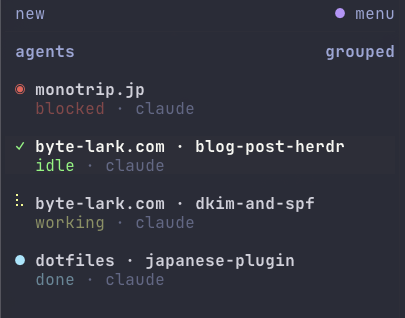
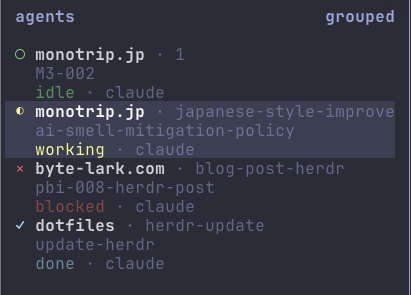
wip(pbi): PHASE1E-008 herdr画像3枚の反映（枠あり掲載・全体とagents差し替え）
Claude-Session: https://claude.ai/code/session_01CrGy8vAME4qcyhYRuFSnuM

diff --git a/docs/pbi/20260823-PHASE1E-008-post-ghostty-herdr-migration.md b/docs/pbi/20260823-PHASE1E-008-post-ghostty-herdr-migration.md
@@ -230,3 +230,18 @@ Started: 2026-08-23
 - herdr 0.9.0 のスクショ 2 枚（統合版 = 全体、サイドバー単体）をチャットで受領。
   差し替え先の提案と赤枠版の説明文面を運営者に提示し、OK 待ち
 - 検査：natural-japanese lint --genre tech 0 件（84 文）、profile「避ける表現」照合済み
+
+### 2026-09-12 セッション 4 続き 4（herdr 画像 3 枚の反映とプレビュー送付）
+- 運営者が「文面は一旦OK。差し替え方針も提案でやってみましょう。出来上がり見ないと
+  なんとも言えない」と回答 → 実施して出来上がりを送付する方式に
+- 枠あり版（運営者がサイドバー単体に赤枠 + 注釈を書き込んだもの）を「herdrとは」節に
+  掲載。承認文面は統合版ベースの想定だったため、導入文と alt を実際の画像に合わせて
+  調整（herdr-sidebar-annotated.png。調整は運営者に報告）
+- 統合版で herdr-overview.png を差し替え。alt の「この記事を書いているセッション自体が
+  写っている」は、新画像の中央が別プロジェクトのため削除
+- サイドバー単体から agents 部分を切り抜き（411x295）herdr-agents-sidebar.png を差し替え
+- draft を一時 false にしてローカル dev でフルページスクショを撮影し運営者に送付。
+  撮影後 draft: true へ戻し、一時スクリプト（scripts/tmp-shot-preview.mjs）は削除済み
+- 検査：natural-japanese lint --genre tech 0 件（86 文）、profile「避ける表現」照合済み
+- 確認待ち：出来上がりの見た目 / 統合版の写り込み（monotrip.jp）可否 /
+  「画像ではエージェントをdevcontainerで動かしています」の 1 文が新画像でも正か
